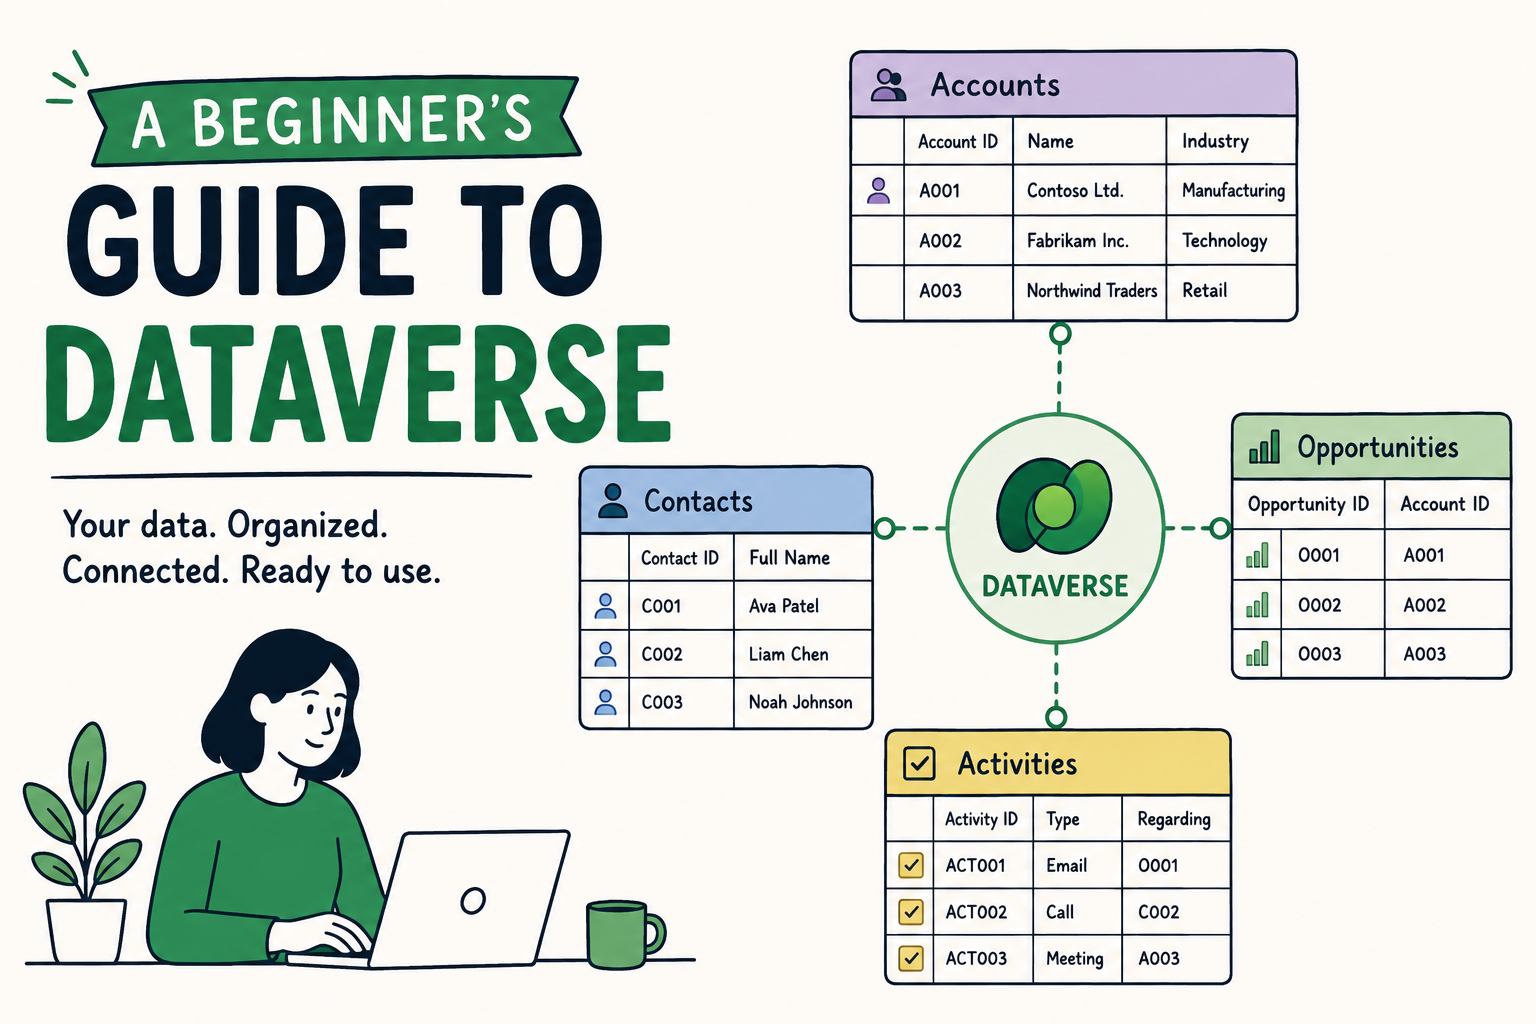
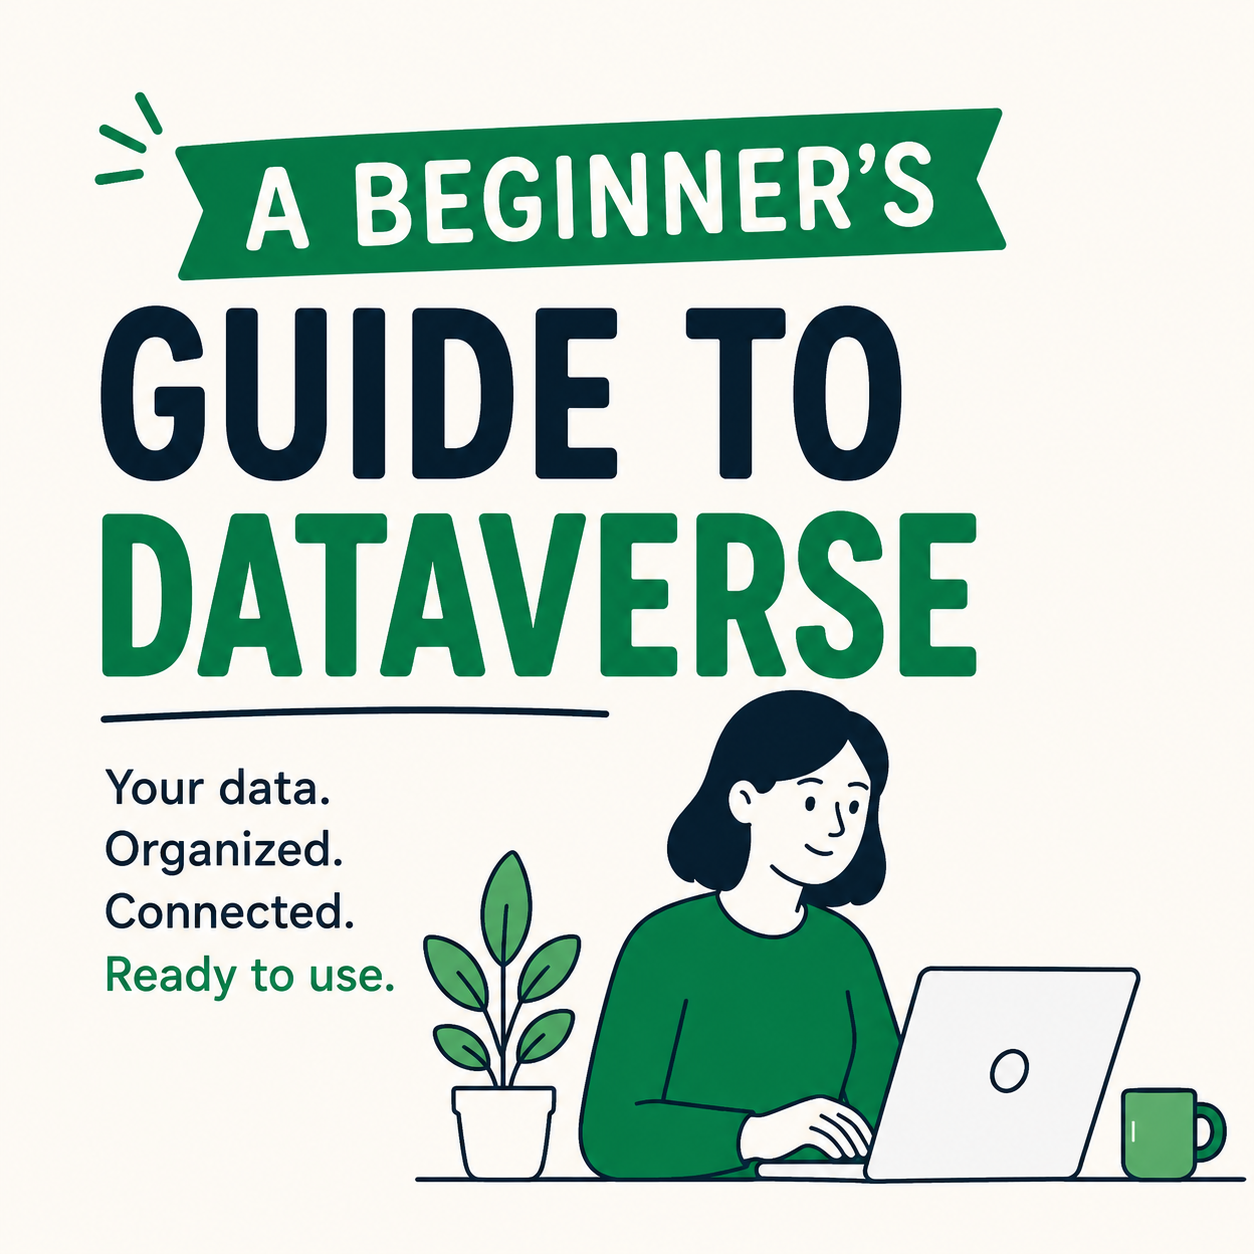
updating images

diff --git a/docs/projects/index.html b/docs/projects/index.html
@@ -2,9 +2,7 @@
 <html lang="en">
 
 <head>
-  <title>
-  Projects · Gavin Warner
-</title>
+  <title>Projects · Gavin Warner</title>
   <meta charset="utf-8">
 <meta name="viewport" content="width=device-width, initial-scale=1.0">
 <meta name="color-scheme" content="light dark">
@@ -13,21 +11,21 @@
 
 
 <meta name="author" content="Gavin Warner">
-<meta name="description" content="Projects coming up">
+<meta name="description" content="Power Platform developer building practical automation, apps, and copilots with Microsoft tools.">
 <meta name="keywords" content="blog,developer,personal">
 
 
 
   <meta name="twitter:card" content="summary">
   <meta name="twitter:title" content="Projects">
-  <meta name="twitter:description" content="Projects coming up">
+  <meta name="twitter:description" content="Power Platform developer building practical automation, apps, and copilots with Microsoft tools.">
 
 <meta property="og:url" content="https://gavinwarner.digital/projects/">
   <meta property="og:site_name" content="Gavin Warner">
   <meta property="og:title" content="Projects">
-  <meta property="og:description" content="Projects coming up">
+  <meta property="og:description" content="Power Platform developer building practical automation, apps, and copilots with Microsoft tools.">
   <meta property="og:locale" content="en">
-  <meta property="og:type" content="article">
+  <meta property="og:type" content="website">
 
 
 
@@ -79,6 +77,7 @@
 <link rel="mask-icon" href="/images/safari-pinned-tab.svg" color="#5bbad5">
 
 
+<link rel="alternate" type="application/rss+xml" href="/projects/index.xml" title="Gavin Warner" />
 
 
 
@@ -144,22 +143,30 @@
 
     <div class="content">
       
-  <section class="container page">
-  <article>
-    <header>
-      <h1 class="title">
-        <a class="title-link" href="https://gavinwarner.digital/projects/">
-          Projects
-        </a>
-      </h1>
-    </header>
+  <section class="container list">
+  <header>
+    <h1 class="title">
+      <a class="title-link" href="https://gavinwarner.digital/projects/">Projects</a>
+    </h1>
+  </header>
+  
+  <ul>
+    
+    <li>
+      <span class="date">March 27, 2025</span>
+      <a class="title" href="/projects/copilot-studio-bot/">Building My First Copilot Studio Agent</a>
+    </li>
+    
+  </ul>
+  
 
-    <p>Projects coming up</p>
 
-  </article>
+
+
+
+
 </section>
 
-  
 
     </div>
 

diff --git a/docs/posts/beginners-guide-to-dataverse/index.html b/docs/posts/beginners-guide-to-dataverse/index.html
@@ -212,6 +212,10 @@
     <span class="sr-only">Link to heading</span>
   </a>
 </h1>
+<figure><img src="/posts/beginners-guide-to-dataverse/thumbnail.png"
+    alt="A Beginner&#39;s Guide to Dataverse thumbnail" width="420">
+</figure>
+
 <p>If you spend enough time around <strong>Power Apps</strong>, <strong>Power Automate</strong>, or <strong>Copilot Studio</strong>, you will eventually hear people mention <strong>Dataverse</strong>. For a lot of beginners, that is usually the point where things start sounding more complicated than they need to.</p>
 <p>At first, Dataverse can seem like one of those tools everybody talks about but nobody explains clearly. You hear that it is &ldquo;better&rdquo; than a SharePoint List, or that it is more &ldquo;powerful,&rdquo; or that it is the &ldquo;right&rdquo; way to build serious Power Platform solutions. None of that really helps if you are still trying to understand what it actually is.</p>
 <p>This post is a simple, practical introduction to Dataverse without the jargon overload.</p>

diff --git a/docs/posts/index.html b/docs/posts/index.html
@@ -165,10 +165,10 @@
     
     <a class="post-list-thumb" href="/posts/beginners-guide-to-dataverse/">
       <img
-        src="/posts/beginners-guide-to-dataverse/thumbnail_hu_1a7bf14c986a5c9e.png"
+        src="/posts/beginners-guide-to-dataverse/thumbnail_hu_3b5d0343917931bb.png"
         alt="A Beginner&#39;s Guide to Dataverse"
         width="88"
-        height="59"
+        height="88"
       >
     </a>
   

diff --git a/content/posts/Beginners Guide to Dataverse/index.md b/content/posts/Beginners Guide to Dataverse/index.md
@@ -19,6 +19,8 @@ categories = [
 
 # A Beginner's Guide to Dataverse
 
+{{< figure src="thumbnail.png" alt="A Beginner's Guide to Dataverse thumbnail" width="420" >}}
+
 If you spend enough time around **Power Apps**, **Power Automate**, or **Copilot Studio**, you will eventually hear people mention **Dataverse**. For a lot of beginners, that is usually the point where things start sounding more complicated than they need to.
 
 At first, Dataverse can seem like one of those tools everybody talks about but nobody explains clearly. You hear that it is "better" than a SharePoint List, or that it is more "powerful," or that it is the "right" way to build serious Power Platform solutions. None of that really helps if you are still trying to understand what it actually is.
